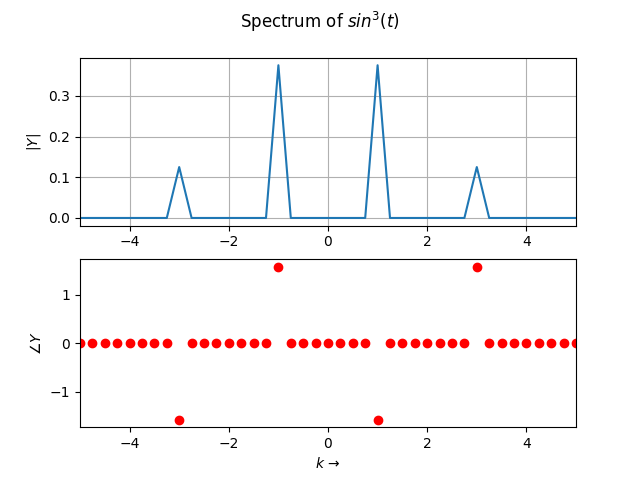
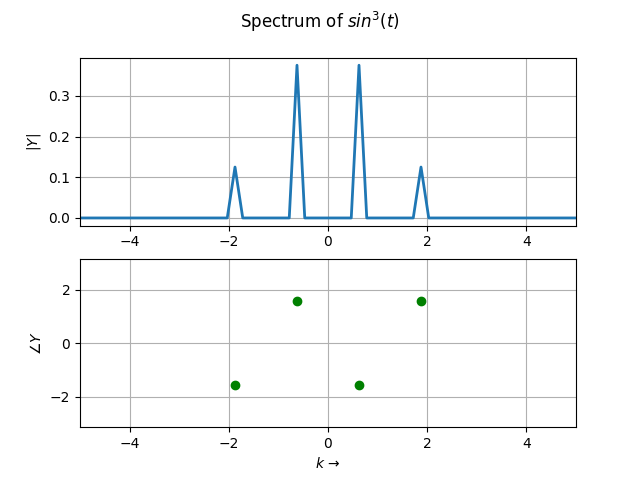
no more bugging at night xD

diff --git a/Week 8/code.py b/Week 8/code.py
@@ -9,7 +9,7 @@ Last Modified on 15/03/20
 
 # Imports
 import numpy as np
-import numpy.fft as fft
+import scipy.fftpack as fft
 import matplotlib.pyplot as plt
 
 # GLobal Variables
@@ -21,9 +21,10 @@ xOriginal = np.random.rand(128)
 X = fft.fft(xOriginal)
 xComputed = fft.ifft(X)
 plt.figure(0)
-t = np.linspace(-64, 63, 128)
-plt.plot(t, xOriginal, 'b', label='Original $x(t)$')
-plt.plot(t, np.abs(xComputed), 'g', label='Computed $x(t)$')
+t = np.linspace(-40, 40, 129)
+t = t[:-1]
+plt.plot(t, xOriginal, 'b', label='Original $x(t)$', lw=2)
+plt.plot(t, np.abs(xComputed), 'g', label='Computed $x(t)$', lw=2)
 plt.xlabel(r'$t\ \to$')
 plt.grid()
 plt.legend()
@@ -42,20 +43,20 @@ fig1 = plt.figure(1)
 fig1.suptitle(r'FFT of $sin(5t)$')
 YMag = np.abs(Y)
 YPhase = np.angle(Y)
-presentFreqs = np.where(YMag < 1e-3)
-YPhase[presentFreqs] = 0
-w = np.linspace(-64, 63, 128)
+presentFreqs = np.where(YMag > 1e-3)
+w = np.linspace(-40, 40, 129)
+w = w[:-1]
 plt.subplot(211)
-plt.plot(w, YMag)
+plt.plot(w, YMag, lw=2)
 plt.xlim([-10, 10])
 plt.ylabel(r'$\|Y\|$')
 plt.grid()
 plt.subplot(212)
-plt.plot(w, YPhase, 'ro')
 plt.xlim([-10, 10])
+plt.ylim([-np.pi, np.pi])
 plt.ylabel(r'$\angle Y$')
 plt.xlabel(r'$k\ \to$')
-plt.plot(w[presentFreqs], YPhase[presentFreqs], 'go')
+plt.plot(w[presentFreqs], YPhase[presentFreqs], 'go', lw=2)
 plt.grid()
 plt.savefig(plotsDir+'Fig1.png')
 
@@ -69,20 +70,20 @@ fig2 = plt.figure(2)
 fig2.suptitle(r'AM Modulation with $(1+0.1cos(t))cos(10t)$')
 YMag = np.abs(Y)
 YPhase = np.angle(Y)
-presentFreqs = np.where(YMag < 1e-3)
-YPhase[presentFreqs] = 0
-w = np.linspace(-64, 64, 512)
+presentFreqs = np.where(YMag > 1e-3)
+w = np.linspace(-40, 40, 513)
+w = w[:-1]
 plt.subplot(211)
-plt.plot(w, YMag)
+plt.plot(w, YMag, lw=2)
 plt.xlim([-15, 15])
 plt.ylabel(r'$\|Y\|$')
 plt.grid()
 plt.subplot(212)
-plt.plot(w, YPhase, 'ro')
 plt.xlim([-15, 15])
+plt.ylim([-np.pi, np.pi])
 plt.ylabel(r'$\angle Y$')
 plt.xlabel(r'$k\ \to$')
-plt.plot(w[presentFreqs], YPhase[presentFreqs], 'go')
+plt.plot(w[presentFreqs], YPhase[presentFreqs], 'go', lw=2)
 plt.grid()
 plt.savefig(plotsDir+'Fig2.png')
 
@@ -96,20 +97,21 @@ fig3 = plt.figure(3)
 fig3.suptitle(r'Spectrum of $sin^3(t)$')
 YMag = np.abs(Y)
 YPhase = np.angle(Y)
-presentFreqs = np.where(YMag < 1e-3)
-YPhase[presentFreqs] = 0
-w = np.linspace(-64, 64, 513)
+presentFreqs = np.where(YMag > 1e-3)
+w = np.linspace(-40, 40, 513)
 w = w[:-1]
 plt.subplot(211)
-plt.plot(w, YMag)
+plt.plot(w, YMag, lw=2)
 plt.xlim([-5, 5])
 plt.ylabel(r'$\|Y\|$')
 plt.grid()
 plt.subplot(212)
-plt.plot(w, YPhase, 'ro')
+plt.plot(w[presentFreqs], YPhase[presentFreqs], 'go', lw=2)
 plt.xlim([-5, 5])
+plt.ylim([-np.pi, np.pi])
 plt.ylabel(r'$\angle Y$')
 plt.xlabel(r'$k\ \to$')
+plt.grid()
 plt.savefig(plotsDir+'Fig3.png')
 
 
@@ -122,20 +124,21 @@ fig4 = plt.figure(4)
 fig4.suptitle(r'Spectrum of $cos^3(t)$')
 YMag = np.abs(Y)
 YPhase = np.angle(Y)
-presentFreqs = np.where(YMag < 1e-3)
-YPhase[presentFreqs] = 0
-w = np.linspace(-64, 64, 513)
+presentFreqs = np.where(YMag > 1e-3)
+w = np.linspace(-40, 40, 513)
 w = w[:-1]
 plt.subplot(211)
-plt.plot(w, YMag)
+plt.plot(w, YMag, lw=2)
 plt.xlim([-5, 5])
 plt.ylabel(r'$\|Y\|$')
 plt.grid()
 plt.subplot(212)
-plt.plot(w, YPhase, 'ro')
+plt.plot(w[presentFreqs], YPhase[presentFreqs], 'go', lw=2)
 plt.xlim([-5, 5])
+plt.ylim([-np.pi, np.pi])
 plt.ylabel(r'$\angle Y$')
 plt.xlabel(r'$k\ \to$')
+plt.grid()
 plt.savefig(plotsDir+'Fig4.png')
 
 
@@ -148,21 +151,21 @@ fig5 = plt.figure(5)
 fig5.suptitle(r'Spectrum of $cos(20t + 5cos(t))$')
 YMag = np.abs(Y)
 YPhase = np.angle(Y)
-presentFreqs = np.where(YMag < 1e-3)
-YPhase[presentFreqs] = 0
-w = np.linspace(-64, 64, 513)
+presentFreqs = np.where(YMag > 1e-3)
+w = np.linspace(-40, 40, 513)
 w = w[:-1]
 plt.subplot(211)
-plt.plot(w, YMag)
+plt.plot(w, YMag, lw=2)
 plt.xlim([-50, 50])
 plt.ylabel(r'$\|Y\|$')
 plt.grid()
 plt.subplot(212)
-significantPhase = np.where(YMag < 1e-3)
-plt.plot(w[significantPhase], YPhase[significantPhase], 'ro')
+plt.plot(w[presentFreqs], YPhase[presentFreqs], 'go', lw=2)
 plt.xlim([-50, 50])
+plt.ylim([-np.pi, np.pi])
 plt.ylabel(r'$\angle Y$')
 plt.xlabel(r'$k\ \to$')
+plt.grid()
 plt.savefig(plotsDir+'Fig5.png')
 
 
@@ -179,18 +182,20 @@ YMag = np.abs(Y)
 YPhase = np.angle(Y)
 presentFreqs = np.where(YMag < 1e-3)
 YPhase[presentFreqs] = 0
-w = np.linspace(-64, 64, 513)
+w = np.linspace(-40, 40, 513)
 w = w[:-1]
 plt.subplot(221)
-plt.plot(w, YMag)
+plt.plot(w, YMag, lw=2)
 plt.xlim([-10, 10])
 plt.ylabel(r'$\|Y\|$')
 plt.grid()
 plt.subplot(223)
-plt.plot(w, YPhase, 'r')
+plt.plot(w, YPhase, 'ro', lw=2)
 plt.xlim([-10, 10])
+plt.ylim([-np.pi, np.pi])
 plt.ylabel(r'$\angle Y$')
 plt.xlabel(r'$k\ \to$')
+plt.grid()
 
 ### Phase and Magnitude of true Gaussian spectrum
 trueY = np.exp(-w**2/2)/np.sqrt(2*PI)
@@ -201,13 +206,15 @@ plt.plot(w, trueYMag)
 plt.xlim([-10, 10])
 plt.grid()
 plt.subplot(224)
-plt.plot(w, trueYPhase, 'r')
+plt.plot(w, trueYPhase, 'ro')
 plt.xlim([-10, 10])
+plt.ylim([-np.pi, np.pi])
 plt.xlabel(r'$k\ \to$')
+plt.grid()
 plt.savefig(plotsDir+'Fig6.png')
 
-maxError = max(np.abs(trueY - Y))
-print(r'Magnitude of maximum error between actual and computed values of the Gaussian: ', maxError)     #
+meanError = np.mean(np.abs(trueY - Y))
+print(r'Magnitude of mean error between actual and computed values of the Gaussian: ', meanError)     #
 
 
 plt.show()
